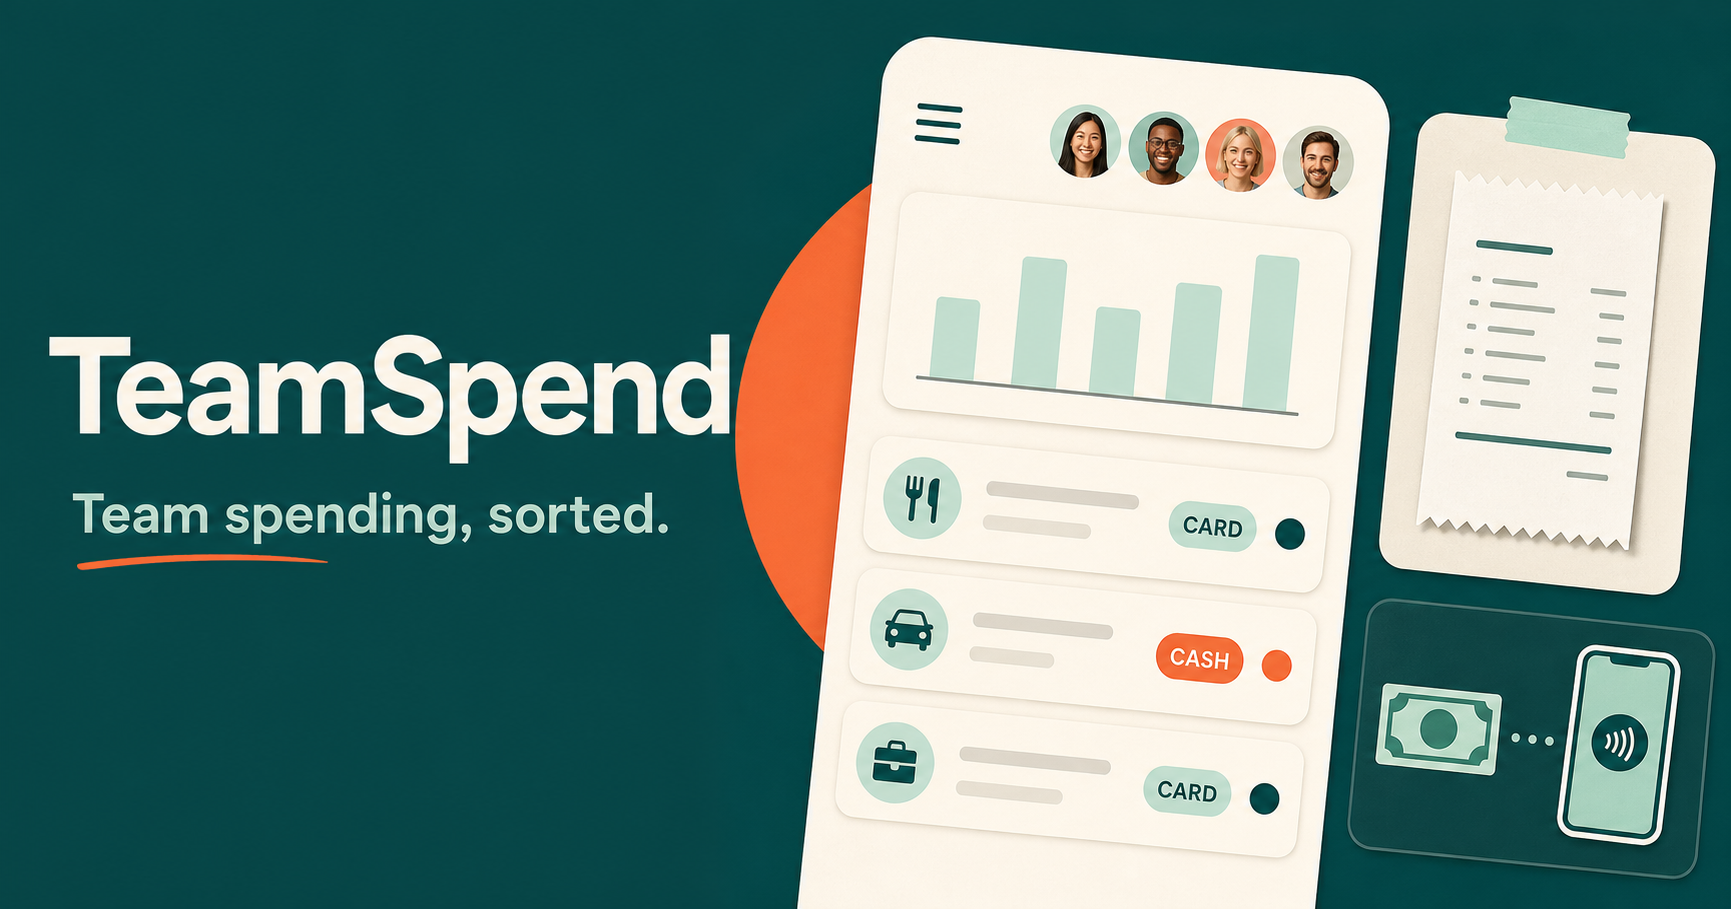
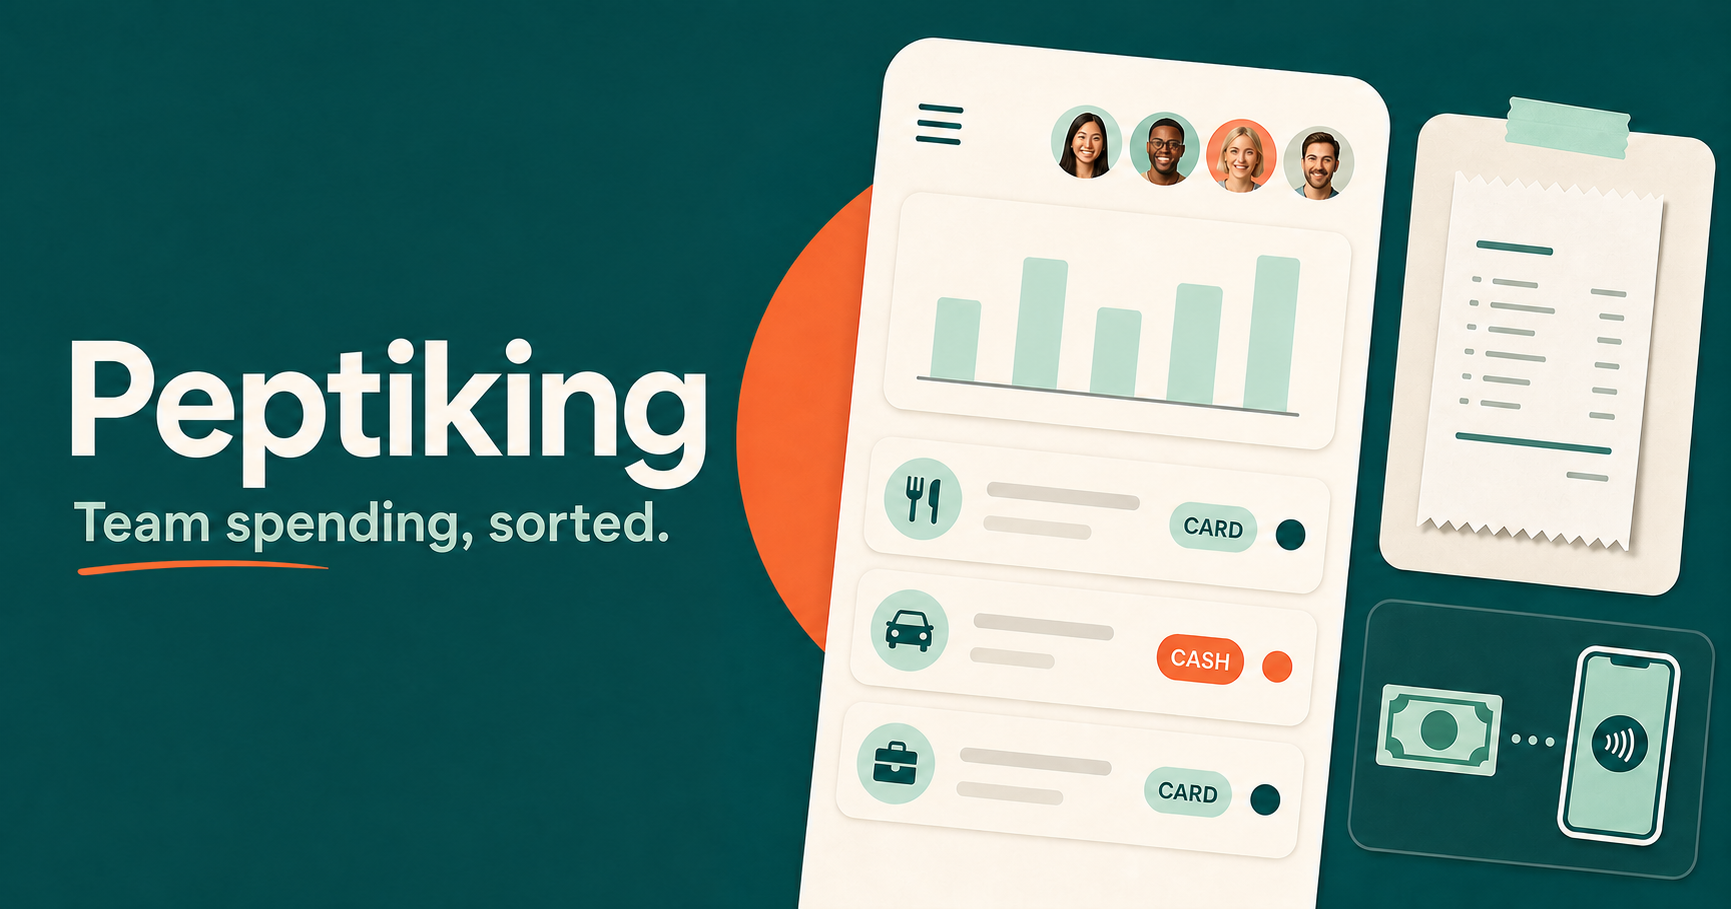
Rename TeamSpend to Peptiking

diff --git a/app/login/page.tsx b/app/login/page.tsx
@@ -1,7 +1,7 @@
 import type { Metadata } from "next";
 
 export const metadata: Metadata = {
-  title: { absolute: "Unlock TeamSpend" },
+  title: { absolute: "Unlock Peptiking" },
   description: "Enter the team password to continue.",
 };
 
@@ -21,7 +21,7 @@ export default async function LoginPage({ searchParams }: {
   return (
     <main className="login-shell">
       <section className="login-card">
-        <div className="login-brand"><span className="brand-mark">T</span><span>TeamSpend</span></div>
+        <div className="login-brand"><span className="brand-mark">P</span><span>Peptiking</span></div>
         <div className="login-lock" aria-hidden="true"><span /></div>
         <p className="eyebrow">Private workspace</p>
         <h1>Team access only.</h1>
@@ -37,7 +37,7 @@ export default async function LoginPage({ searchParams }: {
             <label htmlFor="site-password">Password</label>
             <input id="site-password" name="password" type="password" autoComplete="current-password" autoFocus required placeholder="Enter team password" />
             {params.error === "1" && <p className="login-error" role="alert">That password is not correct. Try again.</p>}
-            <button className="primary-button dark full" type="submit">Unlock TeamSpend</button>
+            <button className="primary-button dark full" type="submit">Unlock Peptiking</button>
           </form>
         )}
         <p className="login-footnote">Protected access · Receipt proof stays private</p>

diff --git a/app/spending-tracker.tsx b/app/spending-tracker.tsx
@@ -405,7 +405,7 @@ function Sidebar({ tab, teamName, member, viewer, onNavigate }: {
 }) {
   return (
     <aside className="sidebar">
-      <div className="brand"><span className="brand-mark">T</span><span>TeamSpend</span></div>
+      <div className="brand"><span className="brand-mark">P</span><span>Peptiking</span></div>
       <nav className="sidebar-nav" aria-label="Main navigation">
         <NavButton desktop label="Overview" symbol="⌂" active={tab === "home"} onClick={() => onNavigate("home")} />
         <NavButton desktop label="Expenses" symbol="≋" active={tab === "activity"} onClick={() => onNavigate("activity")} />
@@ -422,7 +422,7 @@ function Sidebar({ tab, teamName, member, viewer, onNavigate }: {
 function MobileTopbar({ member }: { member: Member }) {
   return (
     <header className="mobile-topbar">
-      <div className="brand"><span className="brand-mark">T</span><span>TeamSpend</span></div>
+      <div className="brand"><span className="brand-mark">P</span><span>Peptiking</span></div>
       <span className="avatar" style={avatarStyle(member.avatarColor)}>{initials(member.name)}</span>
     </header>
   );

diff --git a/app/layout.tsx b/app/layout.tsx
@@ -10,19 +10,19 @@ export async function generateMetadata(): Promise<Metadata> {
   return {
     metadataBase: new URL(`${protocol}://${host}`),
     title: {
-      default: "TeamSpend",
-      template: "%s · TeamSpend",
+      default: "Peptiking",
+      template: "%s · Peptiking",
     },
     description: "A fast, mobile-first spending tracker for your whole team.",
     openGraph: {
-      title: "TeamSpend",
+      title: "Peptiking",
       description: "Team spending, sorted.",
       type: "website",
-      images: [{ url: "/og.png", width: 1744, height: 912, alt: "TeamSpend — Team spending, sorted." }],
+      images: [{ url: "/og.png", width: 1731, height: 909, alt: "Peptiking — Team spending, sorted." }],
     },
     twitter: {
       card: "summary_large_image",
-      title: "TeamSpend",
+      title: "Peptiking",
       description: "Team spending, sorted.",
       images: ["/og.png"],
     },

diff --git a/lib/supabase-admin.ts b/lib/supabase-admin.ts
@@ -115,8 +115,8 @@ function requestIdentity(request: Request) {
   if (process.env.SITE_PASSWORD) {
     return {
       userId: "shared-password-user",
-      email: (process.env.TEAMSPEND_ADMIN_EMAIL || "owner@local.demo").toLowerCase(),
-      fullName: process.env.TEAMSPEND_ADMIN_NAME || "Rog",
+      email: (process.env.PEPTIKING_ADMIN_EMAIL || process.env.TEAMSPEND_ADMIN_EMAIL || "owner@local.demo").toLowerCase(),
+      fullName: process.env.PEPTIKING_ADMIN_NAME || process.env.TEAMSPEND_ADMIN_NAME || "Rog",
     };
   }
   throw new ApiError("Sign in to access this team", 401);

diff --git a/app/page.tsx b/app/page.tsx
@@ -5,7 +5,7 @@ import { SpendingTracker } from "./spending-tracker";
 export const dynamic = "force-dynamic";
 
 export const metadata: Metadata = {
-  title: { absolute: "TeamSpend — Team spending, sorted" },
+  title: { absolute: "Peptiking — Team spending, sorted" },
   description: "Capture team expenses and receipt proof in seconds.",
 };
 

diff --git a/README.md b/README.md
@@ -1,4 +1,4 @@
-# TeamSpend
+# Peptiking
 
 A mobile-first spending tracker for small teams. Team members can record cash, card, online, and phone-wallet spending; choose who paid; and attach a receipt photo or payment screenshot. Admins can add members and manage currency and proof requirements.
 
@@ -18,13 +18,13 @@ Without Supabase environment values, the interface runs in a clearly marked demo
 3. Copy `.env.example` to `.env.local` and fill in the project URL and service-role key.
 4. Restart the app. The first signed-in visitor becomes the initial admin. Every later visitor must first be added by email in Admin.
 
-For an existing TeamSpend database, run [`supabase/migrations/20260804_professional_settings.sql`](supabase/migrations/20260804_professional_settings.sql) once to enable Vietnamese đồng. Euro is also available in the currency menu.
+For an existing Peptiking database, run [`supabase/migrations/20260804_professional_settings.sql`](supabase/migrations/20260804_professional_settings.sql) once to enable Vietnamese đồng. Euro is also available in the currency menu.
 
 ## Password protection
 
 Set `SITE_PASSWORD` in the production environment to protect every page and API route with a shared password. Access is remembered for seven days in a secure, HttpOnly cookie. Changing the environment value immediately invalidates existing access cookies after redeployment.
 
-On Vercel, the unlocked shared-password session uses `owner@local.demo` as its server identity so it matches the initial local admin. `TEAMSPEND_ADMIN_EMAIL` and `TEAMSPEND_ADMIN_NAME` can override that identity when needed.
+On Vercel, the unlocked shared-password session uses `owner@local.demo` as its server identity so it matches the initial local admin. `PEPTIKING_ADMIN_EMAIL` and `PEPTIKING_ADMIN_NAME` can override that identity when needed.
 
 The service-role key is used only in server route handlers and is never sent to the browser. Production access is designed for a private OpenAI Site, which supplies the signed-in user's verified email to the app server.
 
